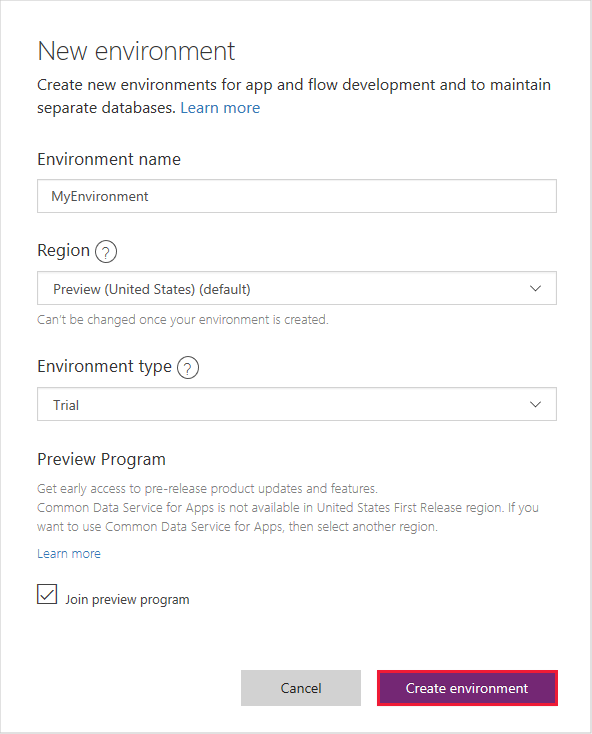
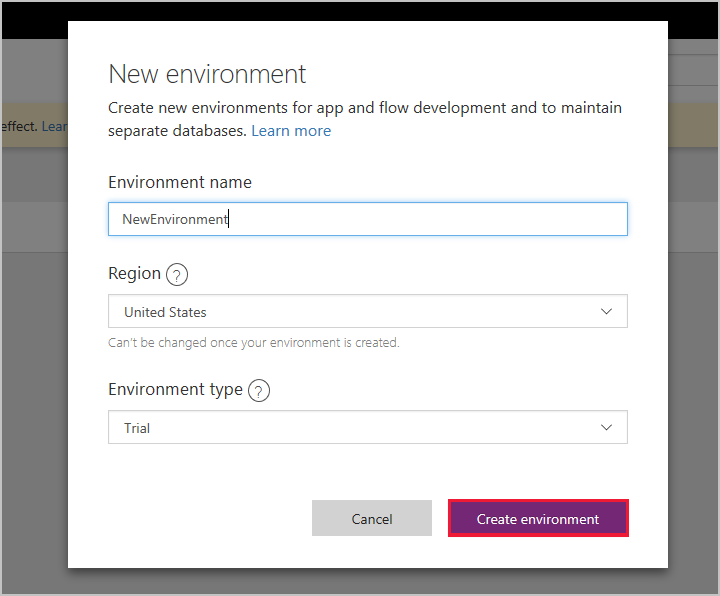
Updated flow screen shot

diff --git a/ai-docs/customer-service-virtual-agent/how-to-flow.md b/ai-docs/customer-service-virtual-agent/how-to-flow.md
@@ -22,7 +22,9 @@ You can enable you virtual agent to perform an action by invoking a Microsoft Fl
 
 2. Select **New environment** to open the New environment screen.
 
-    Specify a unique name for the environment, *United States* as the region, and *Trial* as the environment type. Select the **Join Preview** check box and then **Create environment**.
+    Specify a unique name for the environment, *United States* as the region, and *Trial* as the environment type. Then select **Create environment**.
+
+   > ![Create environment](media/how-to-flow-1-1.png)
 
     PowerApps creates the environment and displays a prompt asking if you want to create a database.
 
